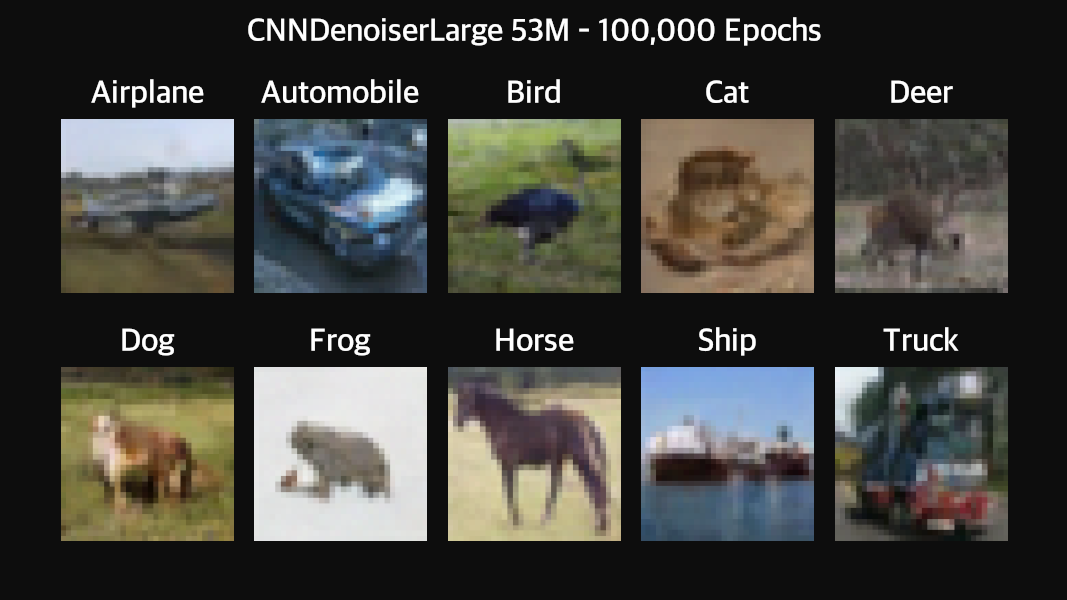
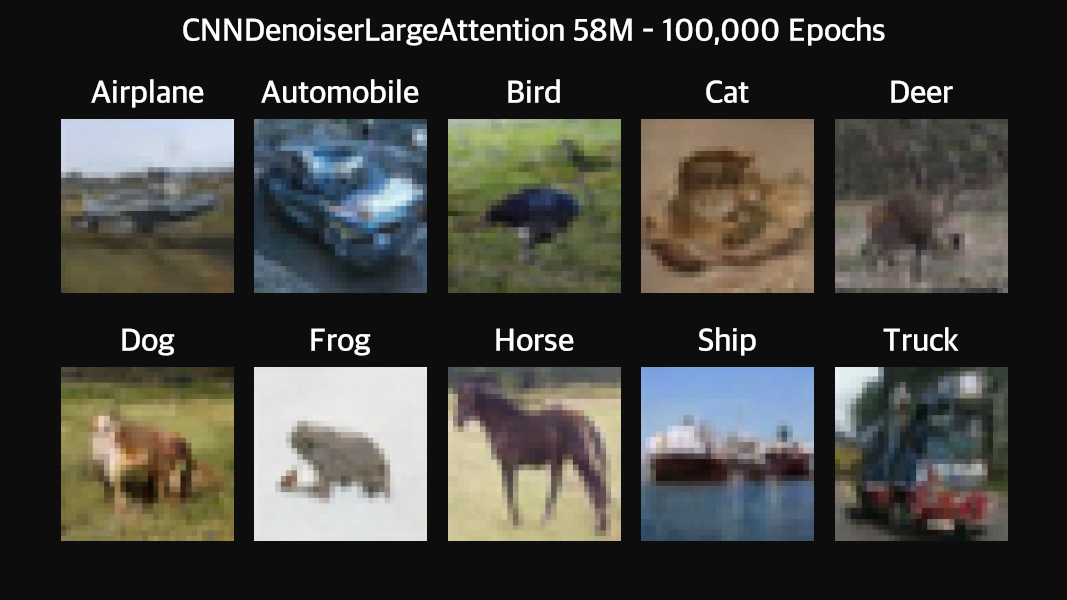
docs: Fix typo in 58M + Attention image

Changed region(s): [[0.1546, 0.03, 0.8351, 0.09]]

diff --git a/src/diffusion_playground/data_loader/imagenet.py b/src/diffusion_playground/data_loader/imagenet.py
@@ -1,0 +1,2 @@
+def load_imagenet():
+    pass
